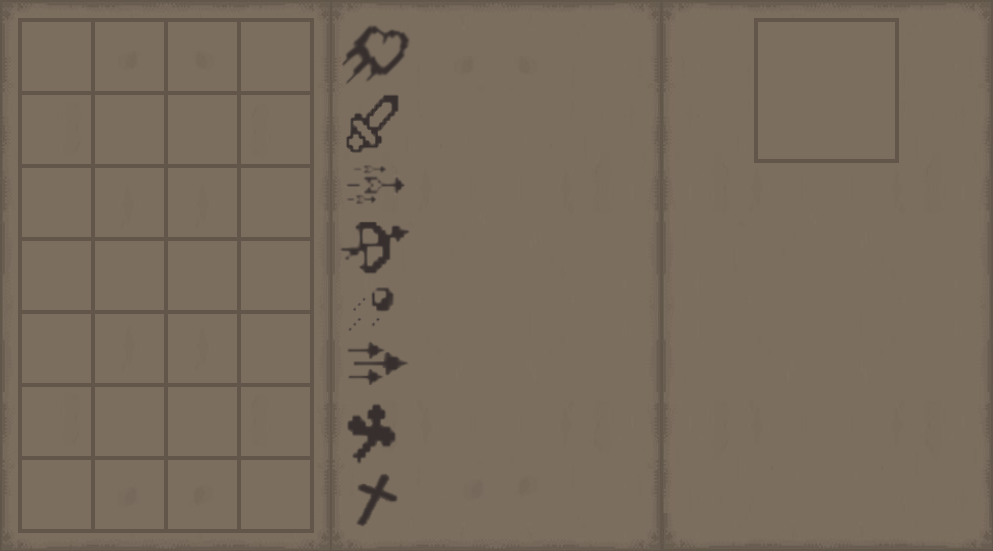
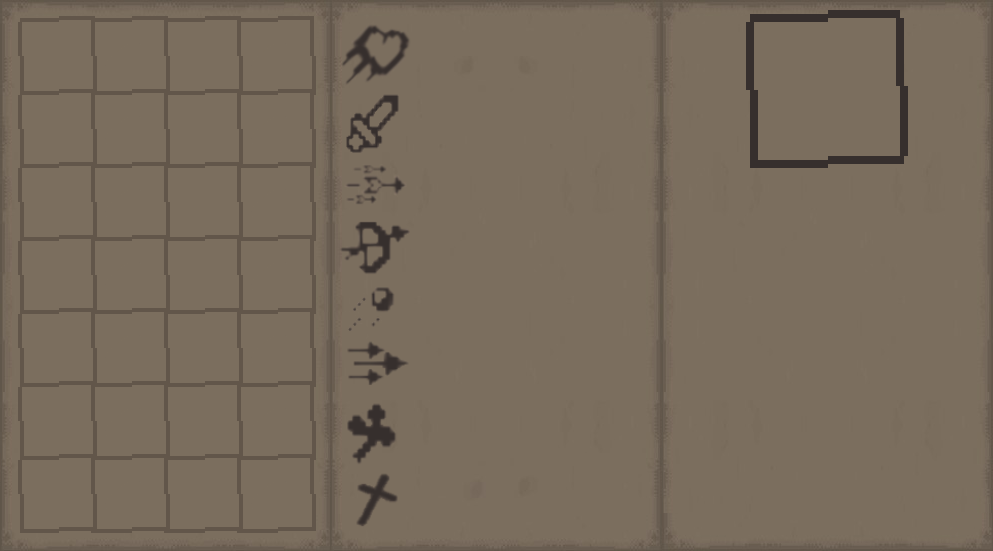
visual changes

diff --git a/src/entities/player/equipment.py b/src/entities/player/equipment.py
@@ -22,7 +22,7 @@ class Equipment():
         self.y = (player.game.settings.WIN_HEIGHT - self.height) // 2
 
         #items
-        self.items = [1,2,3,4,5,1,1,1,1,1,1,1,1,3] #dla testu dane
+        self.items = [] #dla testu dane
         self.first_item_x = self.x + 22
         self.first_item_y = self.y + 22
         self.item_distance = 73
@@ -33,12 +33,12 @@ class Equipment():
         self.items_y = [i for i in range(self.first_item_y, self.first_item_y + self.item_distance * self.item_in_col, self.item_distance )]
         
         #cursor
-        self.cursor_size = 3
-        self.cursor_image = pygame.transform.scale(pygame.image.load("resources/other/eq-cursor.png"), 
-                            (self.item_size + 2 * self.cursor_size, self.item_size + 2 * self.cursor_size))
+        self.cursor_size = 4
+        self.cursor_image = pygame.image.load("resources/other/eq-cursor.png")
         
+        self.cursor_y_offset = 2
         self.cursor_x = self.first_item_x - self.cursor_size
-        self.cursor_y = self.first_item_y - self.cursor_size
+        self.cursor_y = self.first_item_y - self.cursor_size - self.cursor_y_offset
 
         self.highlighted_item_row = 0
         self.highlighted_item_col = 0
@@ -108,7 +108,7 @@ class Equipment():
     
     def set_cursor_and_big_item(self):
         self.cursor_x = self.items_x[self.highlighted_item_row] - self.cursor_size
-        self.cursor_y = self.items_y[self.highlighted_item_col] - self.cursor_size
+        self.cursor_y = self.items_y[self.highlighted_item_col] - self.cursor_size - self.cursor_y_offset 
         self.highlighted_item_index = self.highlighted_item_col * self.item_in_row + self.highlighted_item_row
 
         if self.highlighted_item_index >= len(self.items):
